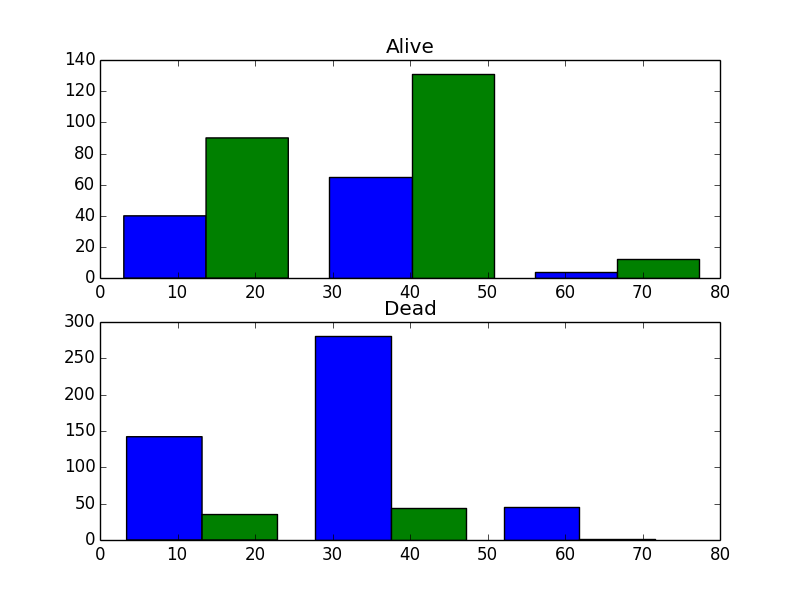
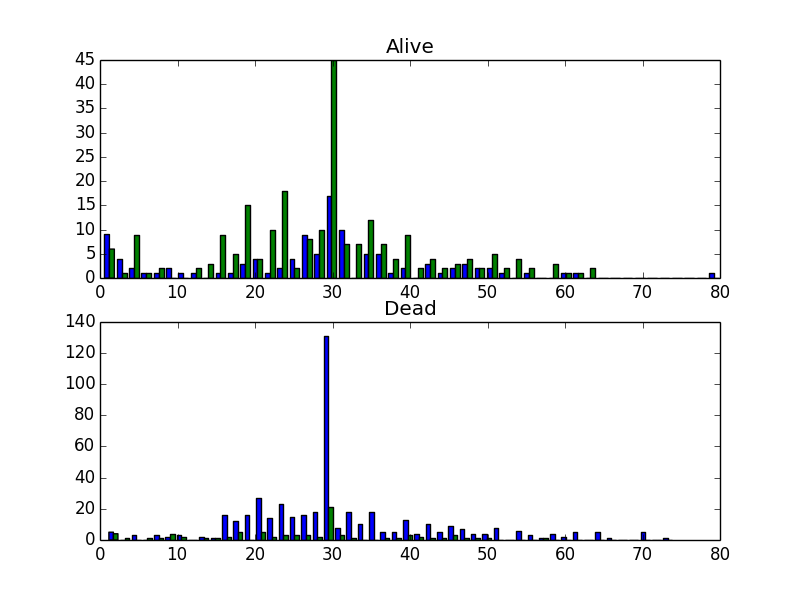
made more detailed age histogram

diff --git a/main.py b/main.py
@@ -121,11 +121,11 @@ plt.title ('Age Histogram')
 plt.subplot(211)
 plt.title('Alive')
 histdata = [men_sur_age, wom_sur_age]
-plt.hist(histdata, bins=3)
+plt.hist(histdata, bins=50)
 plt.subplot(212)
 plt.title('Dead')
 histdata = [men_die_age, wom_die_age]
-plt.hist(histdata, bins=3)
+plt.hist(histdata, bins=50)
 fig1.savefig('AgeHistogram')
 
 plt.clf()  # clear existing plot
